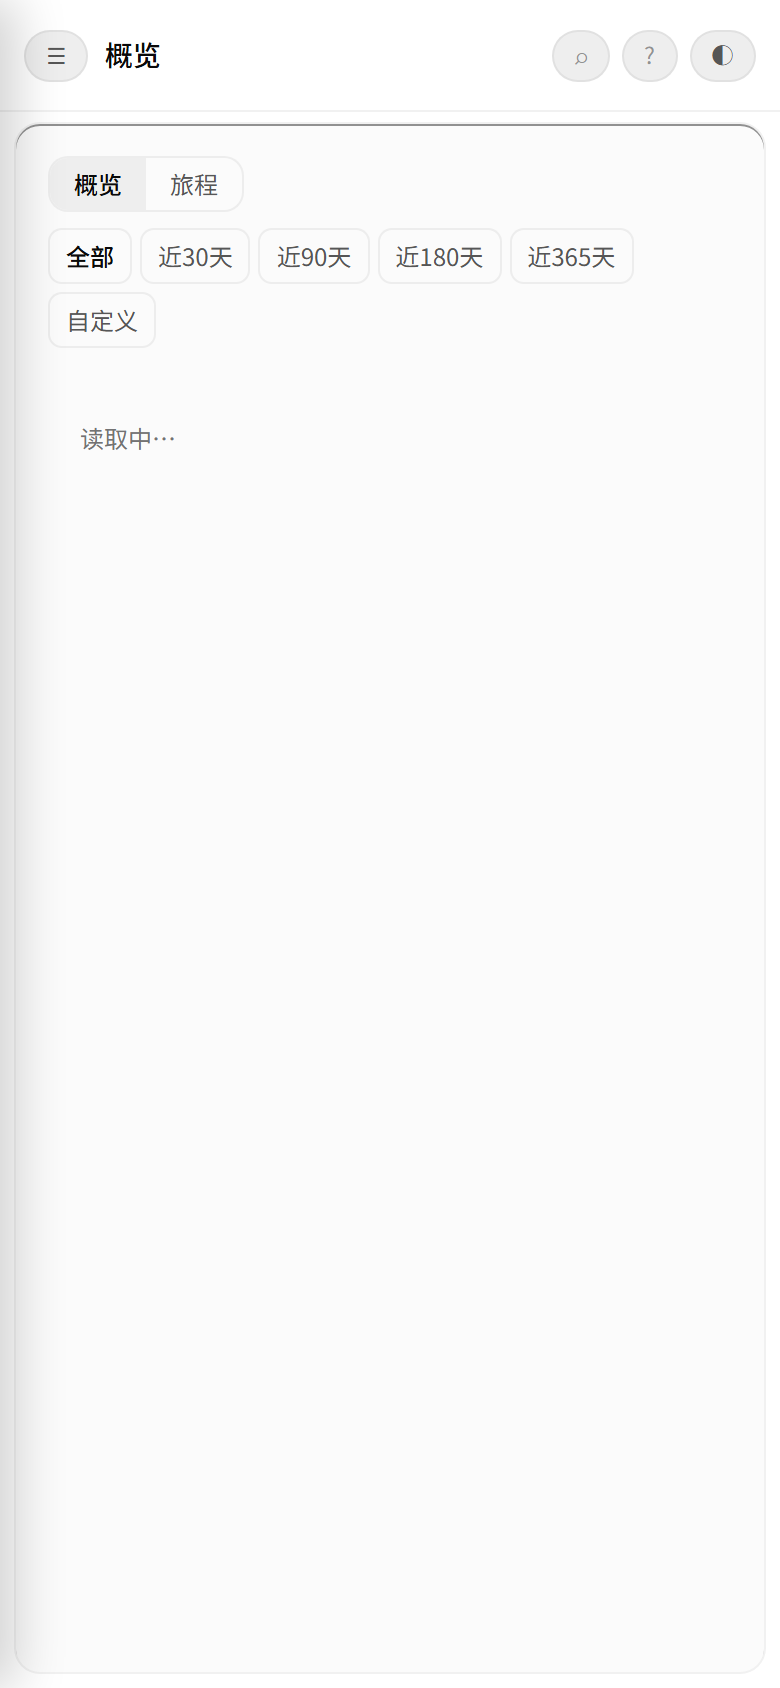
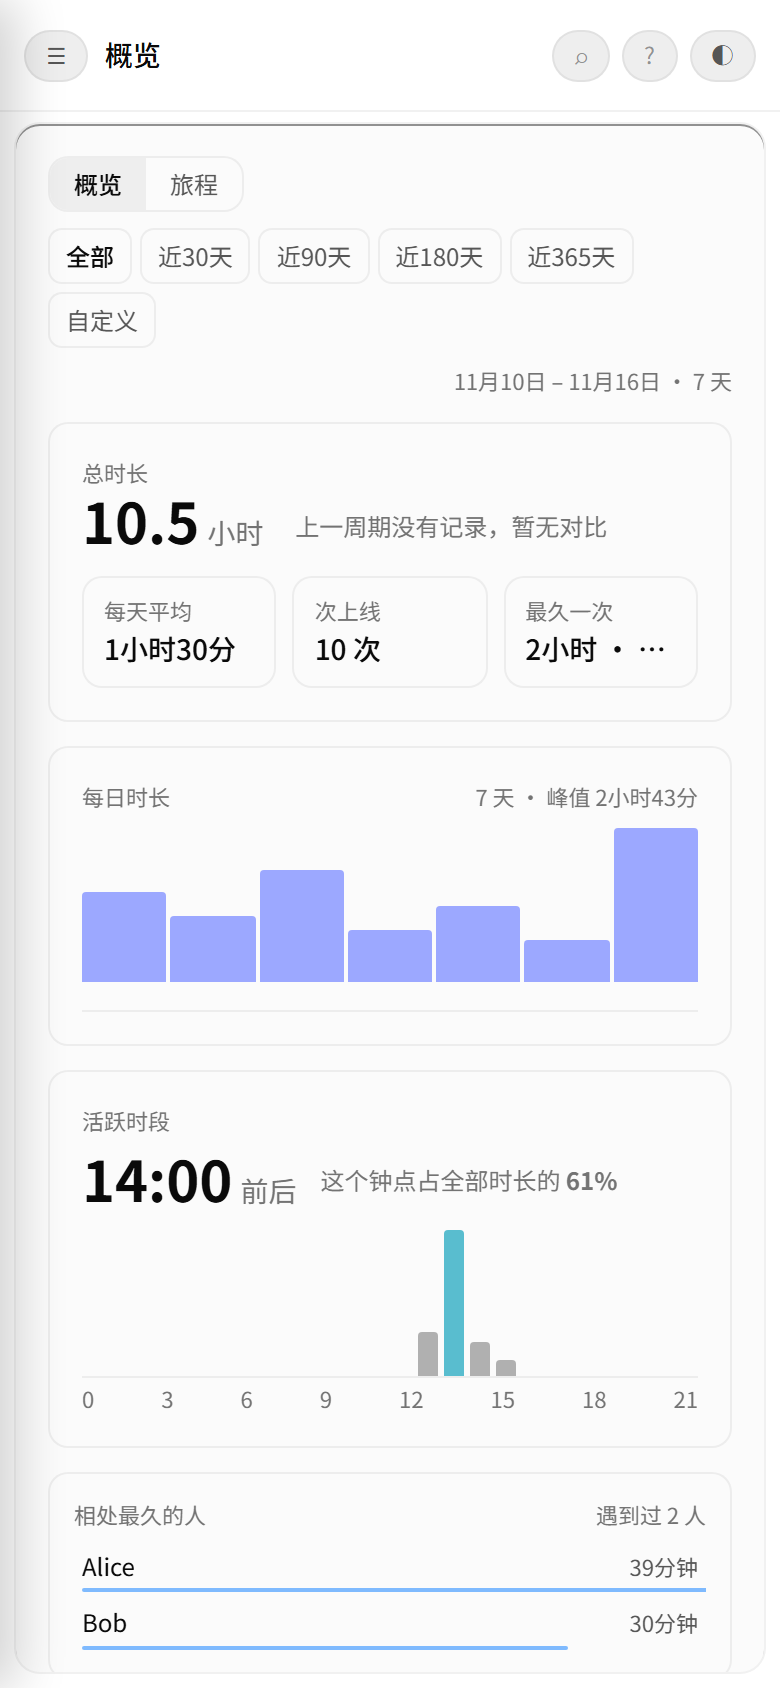
test(第七轮): 三端截图验收（含 81 展开态）+ 逐图目视复核

diff --git a/docs/vrcx0-parity.md b/docs/vrcx0-parity.md
@@ -204,3 +204,31 @@ PC 端 log-agent 未上线，`game_event` 为空，所以这一轮只做**用现
 ## 第七轮完成定义
 
 1. 76~81 全部 done；2. `scripts/parity7_check.sh` 全绿；3. build + smoke；4. 三端截图（桌面/手机/4K）；5. 不 push。
+
+## 第七轮验收证据（2026-11-16 17:22）
+
+- `cd web && npm run build` → 102 modules，`index-DNwvQYJj.js` 374.59 kB / `index-ZPbOvBkH.css` 23.65 kB，built 11.83s
+- `bash scripts/parity7_check.sh` → PARITY7 OK 9/9（76api/77/81api + 76ui/77ui/78ui/79ui/80ui/81ui）
+- `node server/scripts/smoke.mjs` → SMOKE OK（health/db 全绿）
+- 三端截图（PC Chrome headless + CDP，容器 demo 8899 经 ssh -R 18899 反代）：
+  `docs/screenshots/round7-{desktop-overview,desktop-friends,desktop-feed,desktop-gamelog,desktop-gamelog-open,mobile-overview,4k-overview}.png`
+  1600×1000 / 390×844 dpr2 / 3840×2160，全部 over=false、无 4xx 子请求（仅演示库假头像 id 的 /api/img 403 已降噪）、正文 311–774 字。
+  内容实测（CDP innerText）：概览「总时长 10.4小时 / 每天平均 1小时29分 / 次上线 10 次 / 最久一次 2小时·Alpha Club / 每日时长峰值 2小时41分 / 活跃时段 14:00前后 61% / 相处最久 Alice 37分钟 / 过路人 Dave 10 次」，24h 柱 67 个 rect；游戏日志 7 个日期头各带世界行；动态 16 行四列表格。
+
+> demo 空态的坑已修：`server/scripts/demo.mjs` 改成「先建库+种子、后起服务」，并把「子进程退出 / roster.total=0 / 种子全空」都变成非零退出 —— 之前先起服务再种子会撞 SQLite `database is locked`，子服务死掉但探活打到残留旧进程上，接口全空、截图全是空态。
+
+### 逐图目视复核（2026-11-16 17:26，非 CDP 文本，直接看图）
+
+- `desktop-overview`：三栏完整（左导航/中主区/右栏好友常驻），总时长 10.4 小时 + 每天平均 1小时29分 + 10 次 + 最久一次；7 根每日柱、24h 柱、右栏三榜单（相处最久 Alice 37分钟 / 过路人 Dave 10 次；相处变少为空态文案）均无重叠溢出。
+- `desktop-friends`：顶部五标签带计数（在线 2 / 好友收藏 1 / 同一房间 1 / 活跃中 2 / 离线 1），每条含 `JP` 区域徽标 + `38分钟` + `Alpha Club · 仅好友`。
+- `desktop-feed`：表头恰为 时间/玩家/类型/详细信息 四列，主表无头像列，行高统一紧凑，类型列图标+文字对齐，无换行堆叠。
+- `desktop-gamelog`：日期头（时长/世界数/次数）→ 世界行（区域/访问级别/次数/时长）两级分组，7 天全在。
+- `desktop-gamelog-open`（本轮新增）：展开后两次停留 `14:20–15:20 · 1小时 · 1人同房 · 公开` / `15:40–17:23 · 1小时43分 · 2人同房 · 公开`，玩家 chip `Dave 14:25`、`Dave 16:20`、`Alice 16:30` —— 81 的明细层首次有像素证据（此前只有折叠态）。
+- `mobile-overview`（390×844 dpr2）：无横向溢出、卡片不裁切、筛选按钮换行不挤压；侧栏收成汉堡抽屉。
+- `4k-overview`（3840×2160）：无横向滚动，三栏按比例撑开。
+
+> shoot.mjs 增 `post` 参数（截图前执行一段 JS），81 的展开态即用 `document.querySelector('.card button[data-open]').click()` 验证可点性 + 出图，一次性把「能不能展开」也测了。
+
+### 回归（本轮复跑）
+
+`parity_check` 12/12、`parity2_check` 14/14、`parity3_check` 7/7、`parity4_check` 10/10、`parity5_check` 9/9、`parity6_check` 15/15 —— 全部 OK。
